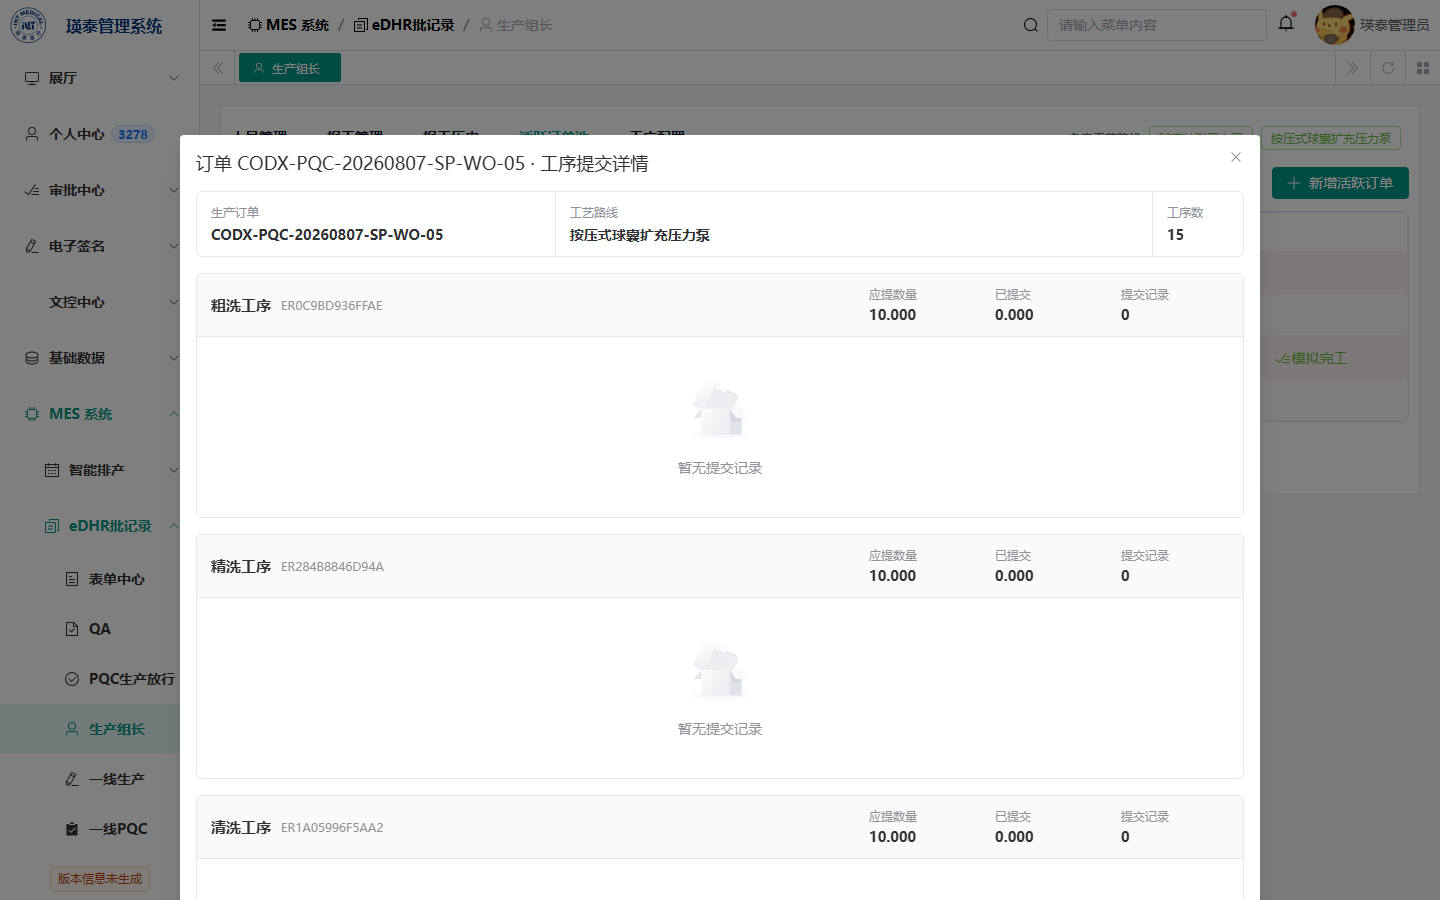
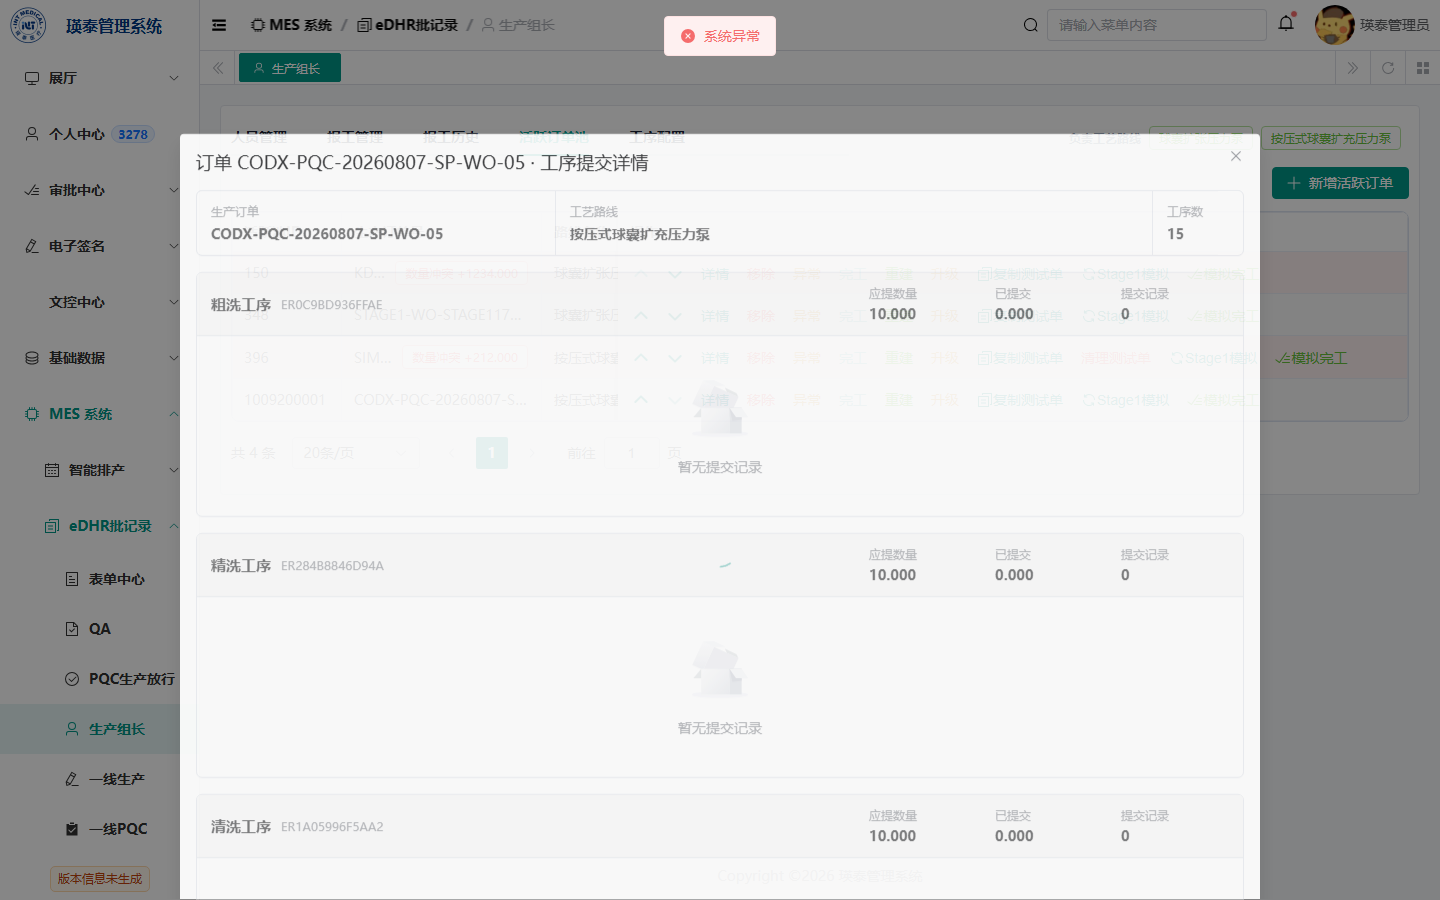
test: strengthen active order upgrade e2e evidence

diff --git a/doc/tasks/20260902-active-order-latest-version-upgrade-restart-code/verification-report.md b/doc/tasks/20260902-active-order-latest-version-upgrade-restart-code/verification-report.md
@@ -274,3 +274,44 @@ Note: The rerun captured a background approval-todo badge console error (`系统
 Feature branch commit: $full.
 
 Committed scope includes backend implementation, frontend entry/API integration, SQL migrations, static tests, real E2E scripts, task records, PRD/user-flow docs, and preserved E2E artifacts.
+
+### 2026-09-03 Fresh Full-Chain Rerun Boundary
+
+User gate: continue E2E verification beyond old-order freeze and prove the terminal chain.
+
+Changes to E2E coverage:
+
+- `active-order-version-upgrade-submit-real.e2e.cjs`: now scans active-order pagination before declaring a source row missing.
+- `active-order-version-upgrade-approve-real.e2e.cjs`: now scans active-order pagination before declaring the replacement row missing after approval.
+- `active-order-version-upgrade-final-state-real.e2e.cjs`: now scans all active-order pages and asserts the old source active-order ID is absent from the full visible active pool, not just page 1.
+
+Verification rerun:
+
+```powershell
+node IntRuoyiFronted\tests\e2e\active-order-version-upgrade-final-state-real.e2e.cjs
+```
+
+Result: PASS. Playwright logged in through the real frontend, opened the production-leader active-order pool, scanned visible active-order IDs 150, 348, 396, and 1009200001, verified old active order 45 is absent from all visible active-pool pages, verified replacement active order 1009200001 is visible with work order CODX-PQC-20260807-SP-WO-05 and route version V12, and opened its detail dialog from the real page.
+
+Static and contract rerun:
+
+```powershell
+node --check IntRuoyiFronted\tests\e2e\active-order-version-upgrade-submit-real.e2e.cjs
+node --check IntRuoyiFronted\tests\e2e\active-order-version-upgrade-approve-real.e2e.cjs
+node --check IntRuoyiFronted\tests\e2e\active-order-version-upgrade-final-state-real.e2e.cjs
+node IntRuoyiFronted\tests\e2e\active-order-version-upgrade-entry-static.spec.cjs
+node IntRuoyiBackend\yudao-module-mes\src\test\js\mes-active-order-version-upgrade-code-static.spec.cjs
+python -X utf8 -m pytest IntRuoyiBackend\script\tests\test_mes_active_order_version_upgrade_request_sql.py -q
+```
+
+Result: PASS; SQL contract suite reported 7 tests.
+
+Fresh continuous-chain rerun boundary:
+
+```powershell
+node IntRuoyiFronted\tests\e2e\active-order-version-upgrade-submit-real.e2e.cjs
+```
+
+Result: BLOCKED by current test data, not by a successful business assertion. The task-owned old-version candidate 1009200000 / CODX-AOUP-20260902205106 has route 633 / V3, but it is not visible in the real active-order pool DOM. The page rendered only active orders 150, 348, 396, and 1009200001. Read-only DB inspection found the candidate's active-order row has work_order_id=1009200000, while its process snapshots and PQC tasks are bound to work_order_id=980032; this inconsistent fixture prevents list readability. No direct DB write, route publication, QA publication, or shared master-data mutation was performed to manufacture a fresh upgradable source order.
+
+Conclusion: the previously approved chain plus today's final-state rerun proves the post-approval terminal outcome. A brand-new submit -> approve -> final E2E instance still needs an approved setup path for a visible old-version task-owned fixture.
